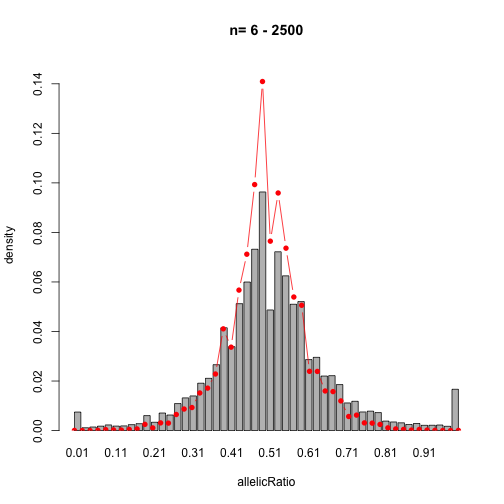
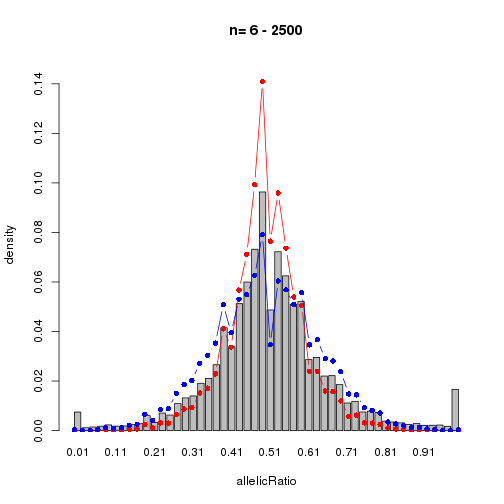
well?

diff --git a/vignettes/binomial.md b/vignettes/binomial.md
@@ -139,23 +139,25 @@ Optimize the overdispersion parameter
 
 
 ```r
-#optimized_overdispersion_details <- optimize_overdispersion_parameter(
-#  w_grad,
-#  overdispersion_details[["b_and_sse"]],
-#  overdispersion_details[["b_choice"]],
-#  overdispersion_details[["sse"]],
-#  empirical,
-#  overdispersion_details[["counter"]],
-#  minN = minN,
-#  binSize = binSize
-#)
-#plot_distributions(
-#  minN,
-#  maxN,
-#  bins,
-#  empirical,
-#  d_combined_sorted_binned,
-#  optimized_overdispersion_details[["e_combined_sorted_binned"]],
-#  yuplimit = 0.15
-#)
+optimized_overdispersion_details <- optimize_overdispersion_parameter(
+  w_grad,
+  overdispersion_details[["b_and_sse"]],
+  overdispersion_details[["b_choice"]],
+  overdispersion_details[["sse"]],
+  empirical,
+  overdispersion_details[["counter"]],
+  minN = minN,
+  binSize = binSize
+)
+plot_distributions(
+  minN,
+  maxN,
+  bins,
+  empirical,
+  d_combined_sorted_binned,
+  optimized_overdispersion_details[["e_combined_sorted_binned"]],
+  yuplimit = 0.15
+)
 ```
+
+![plot of chunk unnamed-chunk-8](figure/unnamed-chunk-8-1.png)
